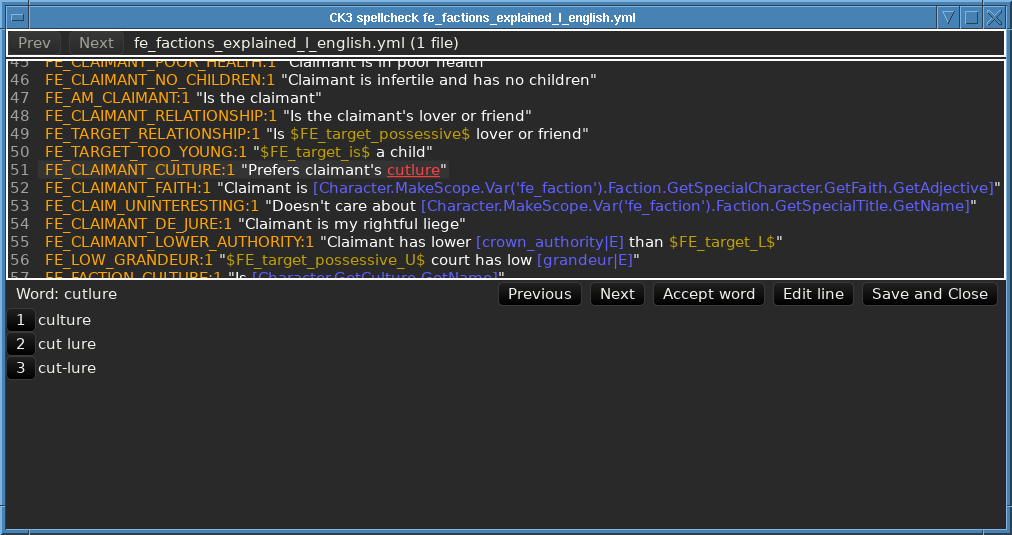
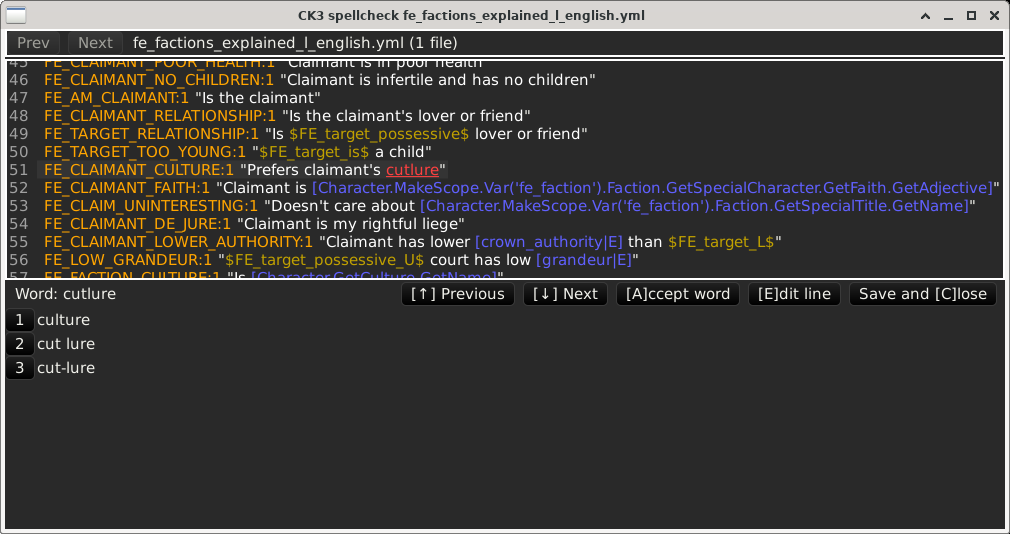
Hotkeys for the buttons

Changed region(s): [[0.0, 0.0, 1.0, 1.0], [0.4911, 0.2097, 0.5218, 0.2697], [0.5525, 0.2397, 0.5832, 0.2697]]

diff --git a/ck3spell/src/appcontroller.rs b/ck3spell/src/appcontroller.rs
@@ -1,3 +1,5 @@
+use anyhow::Context;
+use druid::commands::QUIT_APP;
 use druid::widget::prelude::*;
 use druid::widget::Controller;
 use druid::{Command, KbKey, Target};
@@ -5,7 +7,9 @@ use std::rc::Rc;
 use std::sync::Arc;
 
 use crate::commands::{
-    APPLY_EDIT, APPLY_SUGGESTION, CURSOR_CHANGED, GOTO_LINE,
+    ACCEPT_WORD, APPLY_EDIT, APPLY_SUGGESTION, CURSOR_CHANGED, CURSOR_NEXT,
+    CURSOR_PREV, DICTIONARY_UPDATED, EDIT_LINE, FILE_CHANGED, GOTO_LINE,
+    SAVE_AND_CLOSE,
 };
 use crate::AppState;
 
@@ -64,19 +68,82 @@ impl<W: Widget<AppState>> Controller<AppState, W> for AppController {
                     data.cursor,
                     Target::Auto,
                 ));
+            } else if command.is(ACCEPT_WORD) {
+                if let Some(cursor_word) = data.cursor_word() {
+                    if let Err(err) = data
+                        .file
+                        .speller
+                        .borrow_mut()
+                        .add_word_to_user_dict(cursor_word)
+                    {
+                        eprintln!("{:#}", err);
+                    }
+                    ctx.submit_command(DICTIONARY_UPDATED);
+                }
+            } else if command.is(EDIT_LINE) {
+                data.editing_linenr = data.cursor.linenr;
+                data.editing_text = Arc::new(
+                    data.file.lines[data.cursor.linenr - 1]
+                        .line
+                        .line
+                        .to_string(),
+                );
+            } else if command.is(SAVE_AND_CLOSE) {
+                if let Err(err) =
+                    data.save_file().with_context(|| "Could not save file")
+                {
+                    eprintln!("{:#}", err);
+                }
+                if data.files.len() == 1 {
+                    ctx.submit_command(QUIT_APP);
+                } else {
+                    data.drop_file();
+                    ctx.submit_command(FILE_CHANGED);
+                }
+            } else if command.is(CURSOR_PREV) {
+                data.cursor_prev();
+                ctx.submit_command(Command::new(
+                    CURSOR_CHANGED,
+                    data.cursor,
+                    Target::Auto,
+                ));
+            } else if command.is(CURSOR_NEXT) {
+                data.cursor_next();
+                ctx.submit_command(Command::new(
+                    CURSOR_CHANGED,
+                    data.cursor,
+                    Target::Auto,
+                ));
             }
         } else if let Event::KeyDown(key_event) = event {
-            if let KbKey::Character(k) = &key_event.key {
-                if let Ok(d) = k.parse::<usize>() {
-                    if d > 0 && d <= data.suggestions.len() {
-                        let s = &data.suggestions[d - 1];
-                        ctx.submit_command(Command::new(
-                            APPLY_SUGGESTION,
-                            s.suggestion.clone(),
-                            Target::Auto,
-                        ));
+            match &key_event.key {
+                // Special: accept no hotkeys while editing a line
+                _ if data.editing_linenr > 0 => (),
+                KbKey::Character(a) if a == "a" => {
+                    ctx.submit_command(ACCEPT_WORD)
+                }
+                KbKey::Character(e) if e == "e" => {
+                    ctx.submit_command(EDIT_LINE)
+                }
+                KbKey::Character(c) if c == "c" => {
+                    ctx.submit_command(SAVE_AND_CLOSE)
+                }
+                KbKey::Character(k) => {
+                    // Number keys select suggestions
+                    if let Ok(d) = k.parse::<usize>() {
+                        if d > 0 && d <= data.suggestions.len() {
+                            let s = &data.suggestions[d - 1];
+                            ctx.submit_command(Command::new(
+                                APPLY_SUGGESTION,
+                                s.suggestion.clone(),
+                                Target::Auto,
+                            ));
+                        }
                     }
                 }
+                KbKey::ArrowUp => ctx.submit_command(CURSOR_PREV),
+                KbKey::ArrowDown => ctx.submit_command(CURSOR_NEXT),
+                _ => (),
             }
         }
         child.event(ctx, event, data, env);

diff --git a/ck3spell/src/ui.rs b/ck3spell/src/ui.rs
@@ -1,17 +1,14 @@
-use anyhow::Context;
-use druid::commands::QUIT_APP;
 use druid::widget::prelude::*;
 use druid::widget::{
     Button, CrossAxisAlignment, Either, Flex, Label, LineBreaking, List,
     RawLabel, Scroll, TextBox,
 };
 use druid::{Color, Command, Target, WidgetExt};
-use std::sync::Arc;
 
 use crate::appcontroller::AppController;
 use crate::commands::{
-    APPLY_SUGGESTION, CURSOR_CHANGED, DICTIONARY_UPDATED, FILE_CHANGED,
-    GOTO_LINE,
+    ACCEPT_WORD, APPLY_SUGGESTION, CURSOR_NEXT, CURSOR_PREV, EDIT_LINE,
+    FILE_CHANGED, GOTO_LINE, SAVE_AND_CLOSE,
 };
 use crate::editorcontroller::EditorController;
 use crate::linelist::LineList;
@@ -78,63 +75,25 @@ fn make_line_item() -> impl Widget<LineInfo> {
 }
 
 fn buttons_builder() -> impl Widget<AppState> {
-    let prev =
-        Button::new("Previous").on_click(|ctx, data: &mut AppState, _| {
-            data.cursor_prev();
-            ctx.submit_command(Command::new(
-                CURSOR_CHANGED,
-                data.cursor,
-                Target::Auto,
-            ));
-        });
-    let next = Button::new("Next").on_click(|ctx, data: &mut AppState, _| {
-        data.cursor_next();
-        ctx.submit_command(Command::new(
-            CURSOR_CHANGED,
-            data.cursor,
-            Target::Auto,
-        ));
+    // '\u{2191}' is up arrow
+    let prev = Button::new("[\u{2191}] Previous").on_click(|ctx, _, _| {
+        ctx.submit_command(CURSOR_PREV);
     });
-    let accept = Button::new("Accept word")
-        .on_click(|ctx, data: &mut AppState, _| {
-            if let Some(cursor_word) = data.cursor_word() {
-                if let Err(err) = data
-                    .file
-                    .speller
-                    .borrow_mut()
-                    .add_word_to_user_dict(cursor_word)
-                {
-                    eprintln!("{:#}", err);
-                }
-                ctx.submit_command(DICTIONARY_UPDATED);
-            }
+    // '\u{2192}' is down arrow
+    let next = Button::new("[\u{2193}] Next").on_click(|ctx, _, _| {
+        ctx.submit_command(CURSOR_NEXT);
+    });
+    let accept = Button::new("[A]ccept word")
+        .on_click(|ctx, _, _| {
+            ctx.submit_command(ACCEPT_WORD);
         })
         .disabled_if(|data: &AppState, _| data.cursor_word().is_none());
-    let edit =
-        Button::new("Edit line").on_click(|_, data: &mut AppState, _| {
-            data.editing_linenr = data.cursor.linenr;
-            data.editing_text = Arc::new(
-                data.file.lines[data.cursor.linenr - 1]
-                    .line
-                    .line
-                    .to_string(),
-            );
-        });
-    let save = Button::new("Save and Close").on_click(
-        |ctx, data: &mut AppState, _| {
-            if let Err(err) =
-                data.save_file().with_context(|| "Could not save file")
-            {
-                eprintln!("{:#}", err);
-            }
-            if data.files.len() == 1 {
-                ctx.submit_command(QUIT_APP);
-            } else {
-                data.drop_file();
-                ctx.submit_command(FILE_CHANGED);
-            }
-        },
-    );
+    let edit = Button::new("[E]dit line").on_click(|ctx, _, _| {
+        ctx.submit_command(EDIT_LINE);
+    });
+    let save = Button::new("Save and [C]lose").on_click(|ctx, _, _| {
+        ctx.submit_command(SAVE_AND_CLOSE);
+    });
     Flex::row()
         .with_child(prev)
         .with_default_spacer()

diff --git a/ck3spell/src/commands.rs b/ck3spell/src/commands.rs
@@ -20,3 +20,10 @@ pub const APPLY_SUGGESTION: Selector<Rc<String>> =
 pub const APPLY_EDIT: Selector = Selector::new("apply_edit");
 
 pub const GOTO_LINE: Selector<usize> = Selector::new("goto_line");
+
+// Hotkeys for buttons
+pub const ACCEPT_WORD: Selector = Selector::new("accept_word");
+pub const CURSOR_NEXT: Selector = Selector::new("cursor_next");
+pub const CURSOR_PREV: Selector = Selector::new("cursor_prev");
+pub const EDIT_LINE: Selector = Selector::new("edit_line");
+pub const SAVE_AND_CLOSE: Selector = Selector::new("save_and_close");

diff --git a/TODO.md b/TODO.md
@@ -8,7 +8,6 @@
 - clicking on a line with a misspelling should select the first one on the line
 - clicking directly on a red word should immediately select it
 - when opening "edit line", cursor should go to first misspelling on the line
-- hot keys for the buttons
 
 ## NOT SURE
 - "prev" and "next" when at the end should "bounce" once, then do something useful. (Going to next file is problematic...)
